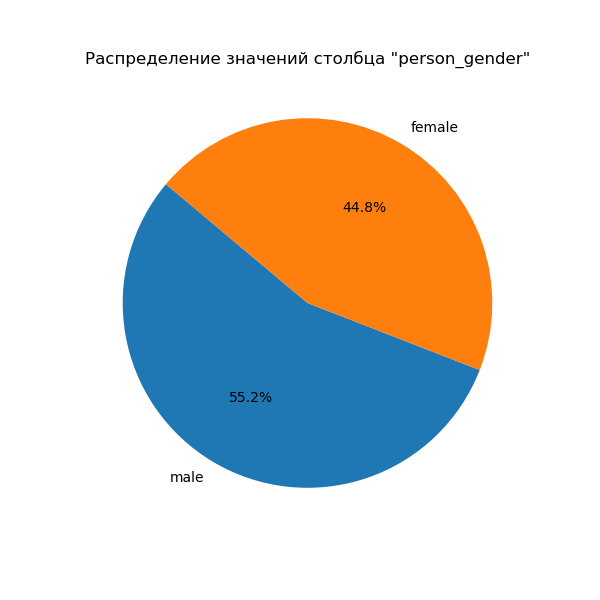
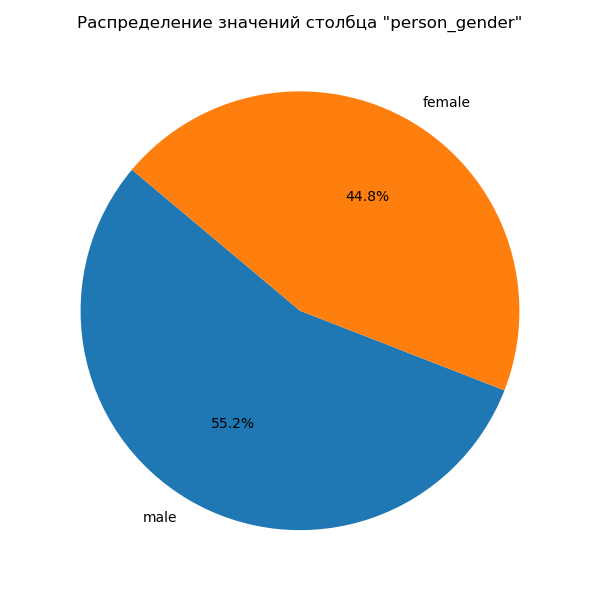
Added comments, redrew the graph for clarity

diff --git a/train_test.py b/train_test.py
@@ -9,6 +9,7 @@ from sklearn.ensemble import RandomForestClassifier
 import numpy as np
 import json
 
+# Функция разделения данных на обучающую и тестовую выборки с предварительной обработкой
 def train_test(df):
     X = df.drop(['loan_status'], axis=1)
     y = df['loan_status']
@@ -27,15 +28,14 @@ def train_test(df):
         ]
     )
 
-    # Делим на тестовую и обучающую выбоорки
     X_train, X_test, y_train, y_test = train_test_split(X, y, test_size=0.33, stratify=y, random_state=101)
 
-    # Применяем предобработку уже после разделения
     X_train = preprocessor.fit_transform(X_train)
     X_test = preprocessor.transform(X_test)
 
     return X_train, X_test, y_train, y_test
 
+# Построение ROC-кривой
 def plot_roc_auc(y_true, y_scores, model_name):
     # Получаем индексы после сортировки scores по убыванию
     sorted_indices = np.argsort(y_scores)[::-1]
@@ -43,30 +43,25 @@ def plot_roc_auc(y_true, y_scores, model_name):
     y_true = np.array(y_true)[sorted_indices]
     y_scores = np.array(y_scores)[sorted_indices]
 
+    # Расчет TPR и FPR вручную
     FPR = []
     TPR = []
 
     P = sum(y_true)
     N = len(y_true) - P
 
-    # Идеально строит кривую как в sklearn
+    # Идеальный случай построения кривой
     #thresholds = np.unique(y_scores)
+
     thresholds = np.arange(0.0, 1.01, 0.2)
 
     for thresh in thresholds:
-        FP = 0
-        TP = 0
-        thresh = round(thresh, 2)
-        for i in range(len(y_scores)):
-            if y_scores[i] >= thresh:
-                if y_true[i] == 1:
-                    TP += 1
-                if y_true[i] == 0:
-                    FP += 1
-
+        FP = sum((y_scores >= thresh) & (y_true == 0))
+        TP = sum((y_scores >= thresh) & (y_true == 1))
         TPR.append(TP / P if P != 0 else 0)
         FPR.append(FP / N if N != 0 else 0)
 
+    # Расчет площади под ROC-кривой
     manual_auc = -1 * np.trapz(TPR, FPR)
 
     # Встроенная функция для площади auc и для графика ROC-кривой
@@ -83,42 +78,52 @@ def plot_roc_auc(y_true, y_scores, model_name):
     plt.title(f"ROC Curve Comparison for {model_name}")
     plt.legend()
     plt.grid(True)
+    plt.tight_layout()
     filepath = f"results/ROC_Curve_Comparison_{model_name}.png"
     plt.savefig(filepath)
     plt.show()
 
     return manual_auc, sklearn_auc
 
+# Построение PR-кривой
 def plot_pr_auc(y_true, y_scores, model_name):
     # Получаем индексы после сортировки scores по убыванию
     sorted_indices = np.argsort(y_scores)[::-1]
     y_true = np.array(y_true)[sorted_indices]
     y_scores = np.array(y_scores)[sorted_indices]
 
+    # Расчет Precision и Recall вручную
     Precision = []
     Recall = []
 
-    P = sum(y_true)  # Количество положительных примеров
+    P = sum(y_true)
 
-    # Идеальный случай
+    # Идеальный случай построения кривой
     # thresholds = np.unique(y_scores)
-    # Таким способом получается большая погрешность
+
     thresholds = np.arange(0.0, 1.01, 0.2)
 
+    # for thresh in thresholds:
+    #     FP = 0
+    #     TP = 0
+    #     thresh = round(thresh, 2)
+    #     for i in range(len(y_scores)):
+    #         if y_scores[i] >= thresh:
+    #             if y_true[i] == 1:
+    #                 TP += 1
+    #             if y_true[i] == 0:
+    #                 FP += 1
+    #
+    #     Recall.append(TP / P if P != 0 else 0)
+    #     Precision.append(TP / (TP + FP) if (TP + FP) != 0 else 1) # Обрабатывая деление на 0 по дефолту пишем 1
+
     for thresh in thresholds:
-        FP = 0
-        TP = 0
-        thresh = round(thresh, 2)
-        for i in range(len(y_scores)):
-            if y_scores[i] >= thresh:
-                if y_true[i] == 1:
-                    TP += 1
-                if y_true[i] == 0:
-                    FP += 1
-
+        TP = sum((y_scores >= thresh) & (y_true == 1))
+        FP = sum((y_scores >= thresh) & (y_true == 0))
         Recall.append(TP / P if P != 0 else 0)
-        Precision.append(TP / (TP + FP) if (TP + FP) != 0 else 1) # Обрабатывая деление на 0 по дефолту пишем 1
+        Precision.append(TP / (TP + FP) if (TP + FP) != 0 else 1)
 
+    # Расчет площади под PR-кривой
     manual_auc = -1 * np.trapz(Precision, Recall)
 
     # Встроенная функция для площади auc и для графика PR-кривой
@@ -134,6 +139,7 @@ def plot_pr_auc(y_true, y_scores, model_name):
     plt.title(f"Precision-Recall Curve Comparison for {model_name}")
     plt.legend()
     plt.grid(True)
+    plt.tight_layout()
     filepath = f"results/PR_Curve_Comparison_Fixed_{model_name}.png"
     plt.savefig(filepath)
     plt.show()
@@ -141,55 +147,64 @@ def plot_pr_auc(y_true, y_scores, model_name):
     return manual_auc, sklearn_auc
 
 def metrics(y_pred, y_pred_proba, y_test, model_name):
-    results = {}
-    TP = ((y_pred == 1) & (y_test == 1)).sum()
-    TN = ((y_pred == 0) & (y_test == 0)).sum()
-    FP = ((y_pred == 1) & (y_test == 0)).sum()
-    FN = ((y_pred == 0) & (y_test == 1)).sum()
+    # Вычисление TP, TN, FP, FN
+    TP = sum(((y_pred == 1) & (y_test == 1)))
+    TN = sum(((y_pred == 0) & (y_test == 0)))
+    FP = sum(((y_pred == 1) & (y_test == 0)))
+    FN = sum(((y_pred == 0) & (y_test == 1)))
 
+    # Метрики вручную
     manual_accuracy = (TP + TN) / (TP + TN + FP + FN)
     manual_precision = TP / (TP + FP) if (TP + FP) > 0 else 0
     manual_recall = TP / (TP + FN) if (TP + FN) > 0 else 0
     manual_F1 = (2 * manual_precision * manual_recall) / (manual_precision + manual_recall) if manual_precision + manual_recall > 0 else 0
+
+    # Построение ROC и PR-кривых
     manual_roc_auc, sklearn_roc_auc = plot_roc_auc(y_test, y_pred_proba, model_name)
     manual_pr_auc, sklearn_pr_auc = plot_pr_auc(y_test, y_pred_proba, model_name)
 
-    results['manual'] = {
-        f"Accuracy": f"{manual_accuracy:.3f}",
-        f"Precision": f"{manual_precision:.3f}",
-        f"Recall": f"{manual_recall:.3f}",
-        f"F1": f"{manual_F1:.3f}",
-        f"ROC-AUC: ": f"{manual_roc_auc:.3f}",
-        f"PR-AUC: ": f"{manual_pr_auc:.3f}",
-    }
-
+    # Метрики sklearn
     accuracy = accuracy_score(y_test, y_pred)
     precision = precision_score(y_test, y_pred)
     recall = recall_score(y_test, y_pred)
     F1 = f1_score(y_test, y_pred)
 
-    results['sklearn'] = {
-        f"Accuracy": f"{accuracy:.3f}",
-        f"Precision": f"{precision:.3f}",
-        f"Recall": f"{recall:.3f}",
-        f"F1": f"{F1:.3f}",
-        f"ROC-AUC: ": f"{sklearn_roc_auc:.3f}",
-        f"PR-AUC: ": f"{sklearn_pr_auc:.3f}",
+    # Сравнение результатов
+    results = {
+        'manual': {
+            "Accuracy": f"{manual_accuracy:.3f}",
+            "Precision": f"{manual_precision:.3f}",
+            "Recall": f"{manual_recall:.3f}",
+            "F1": f"{manual_F1:.3f}",
+            "ROC-AUC": f"{manual_roc_auc:.3f}",
+            "PR-AUC": f"{manual_pr_auc:.3f}",
+        },
+        'sklearn': {
+            "Accuracy": f"{accuracy:.3f}",
+            "Precision": f"{precision:.3f}",
+            "Recall": f"{recall:.3f}",
+            "F1": f"{F1:.3f}",
+            "ROC-AUC": f"{sklearn_roc_auc:.3f}",
+            "PR-AUC": f"{sklearn_pr_auc:.3f}",
+        }
     }
 
     return results
 
 def Random_Forest(X_train, X_test, y_train):
+    # Создание и обучение модели
     RFC = RandomForestClassifier(
         n_estimators=100,
         max_depth=10,
-        min_samples_split=5, # Минимальное количество объектов для разделения узла
-        min_samples_leaf=2, # Минимальное количество выборок в листовом узле
+        min_samples_split=5,  # Минимальное количество объектов для разделения узла
+        min_samples_leaf=2,  # Минимальное количество выборок в листовом узле
         max_features='sqrt',
         class_weight='balanced',
         random_state=101
     )
     RFC.fit(X_train, y_train)
+
+    # Предсказания
     y_pred = RFC.predict(X_test)
     y_pred_proba = RFC.predict_proba(X_test)[:, 1]
 
@@ -200,12 +215,15 @@ if __name__ == "__main__":
     df = pd.read_csv(filename)
     results = {}
 
+    # Разделение данных
     X_train, X_test, y_train, y_test = train_test(df)
 
+    # Обучение модели и расчет метрик
     model_name = 'RandomForest'
     y_pred, y_pred_proba = Random_Forest(X_train, X_test, y_train)
     results[model_name] = metrics(y_pred, y_pred_proba, y_test, model_name)
 
+    # Сохранение результатов в JSON
     filename = 'results/results.json'
     with open(filename, 'w', encoding='utf-8') as json_file:
         json.dump(results, json_file, ensure_ascii=False, indent=4)

diff --git a/eda.py b/eda.py
@@ -10,6 +10,7 @@ def plot_corr(df, title):
     plt.figure(figsize=(10, 8))
     sns.heatmap(corr_matrix, annot=True, cmap='coolwarm', fmt=".2f", linewidths=0.5)
     plt.title(title)
+    plt.tight_layout()
     plot_filename = f"eda/{title}.png"
     plt.savefig(plot_filename)
     plt.show()
@@ -19,8 +20,10 @@ def plot_boxplot(df):
     plt.figure(figsize=(10,6))
     sns.boxplot(df)
     plt.title("Boxplot для обнаружения выбросов")
+    plt.tight_layout()
     plt.show()
 
+# Анализ числового столбца
 def analyze_int_column(column):
     # Пропуски данных
     missing_values = column.isnull().sum()
@@ -71,17 +74,15 @@ def analyze_int_column(column):
     plt.subplot(1, 3, 3)
     stats.probplot(column.dropna(), dist="norm", plot=plt)
     plt.title(f'QQ-plot of {column.name}')
-
     plt.tight_layout()
 
     plt.savefig(f'eda/{column.name}_eda.png')
-
     plt.show()
 
     return results
 
+# Анализ категориального столбца
 def analyze_obj_column(column):
-    # Анализ категориального столбца
     # Пропущенные значения и уникальные значения
     missing_values = column.isnull().sum()
     unique_values = column.nunique()
@@ -92,6 +93,7 @@ def analyze_obj_column(column):
     relative_frequency = column.value_counts(normalize=True)
     dummies = pd.get_dummies(column, prefix=column.name)
 
+    # Результаты для текущего столбца
     results = {
         'Missing Values': missing_values,
         'Unique Values': unique_values,
@@ -103,10 +105,11 @@ def analyze_obj_column(column):
         'Dummies': dummies
     }
 
-    # Pie Chart
+    # Построение круговой диаграммы
     plt.figure(figsize=(6, 6))
     plt.pie(value_counts, labels=value_counts.index, autopct='%1.1f%%', startangle=140)
     plt.title(f'Распределение значений столбца "{column.name}"')
+    plt.tight_layout()
 
     plot_filename = f"eda/{column.name}_pie_plot.png"
     plt.savefig(plot_filename)
@@ -119,6 +122,7 @@ def EDA(df):
     print(df.info())
     print(df.describe())
 
+    # Создание папки для сохранения графиков
     folder_name = "eda"
     if not os.path.exists(folder_name):
         os.makedirs(folder_name)
@@ -126,23 +130,21 @@ def EDA(df):
     # Построение матрицы корреляции до обработки данных
     plot_corr(df, title="Correlation_Matrix_Before_Processing")
 
-    # Удаление выбранных столбцов
+    # Удаление ненужных столбцов
     df = df.drop(['person_emp_exp', 'cb_person_cred_hist_length'], axis=1)
-    print("Delete columns")
-    print(df.columns)
 
     # Построение матрицы корреляции после обработки данных
     plot_corr(df, title="Correlation_Matrix_After_Processing")
+
+    # Анализ каждого столбца
     results = {}
-    int_cols = ['person_age', 'person_income', 'person_emp_exp', 'loan_amnt', 'loan_int_rate', 'loan_percent_income', 'cb_person_cred_hist_length', 'credit_score']
     for col in df.columns:
-        if col in int_cols:
-            col_result = analyze_int_column(df[col])
-            results[col] = col_result
+        if df[col].dtype in ['int64', 'float64']:
+            results[col] = analyze_int_column(df[col])
         else:
-            col_result = analyze_obj_column(df[col])
-            results[col] = col_result
-    print("EDA per column")
+            results[col] = analyze_obj_column(df[col])
+
+    print("Результаты анализа столбцов:")
     print(results)
 
     df = df.drop(df[df['person_age'] > 100].index)
@@ -150,8 +152,12 @@ def EDA(df):
     return df
 
 if __name__ == "__main__":
+    # Загрузка данных
     filename = 'data/data.csv'
-
     df = pd.read_csv(filename)
+
+    # Проведение EDA
     df = EDA(df)
+
+    # Сохранение обновленных данных
     df.to_csv('data/update_df.csv', index=False)
